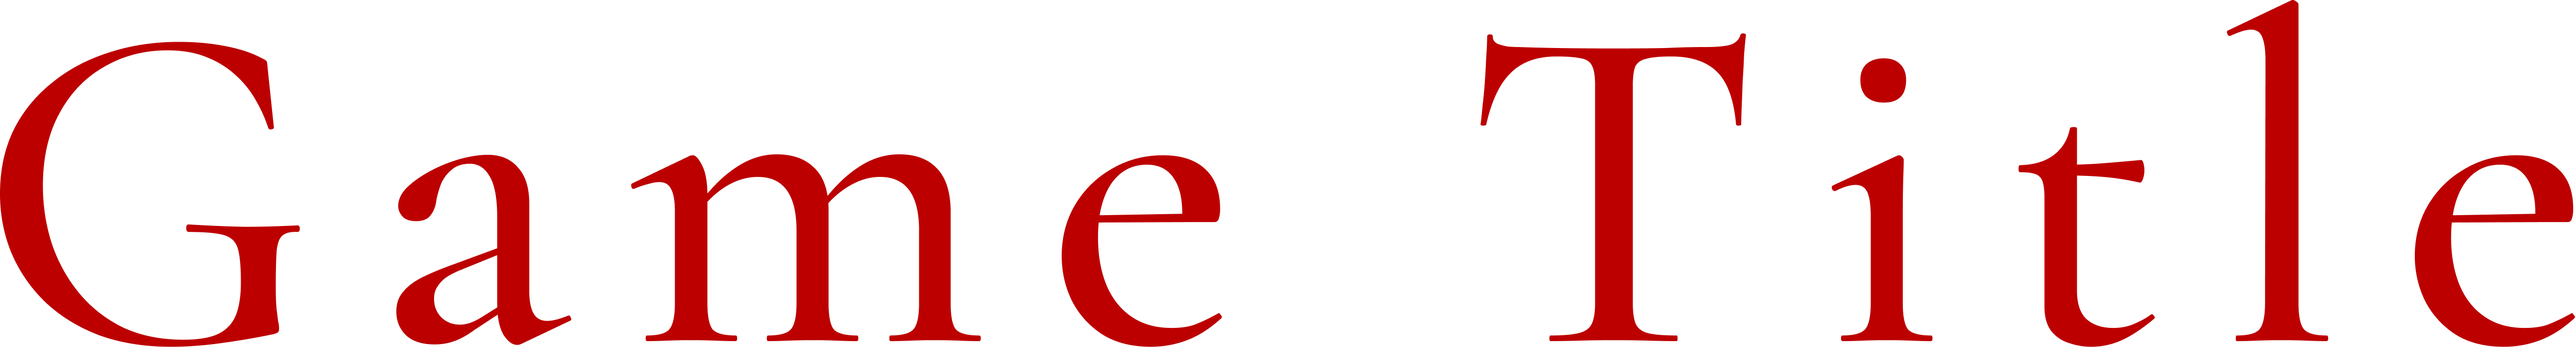
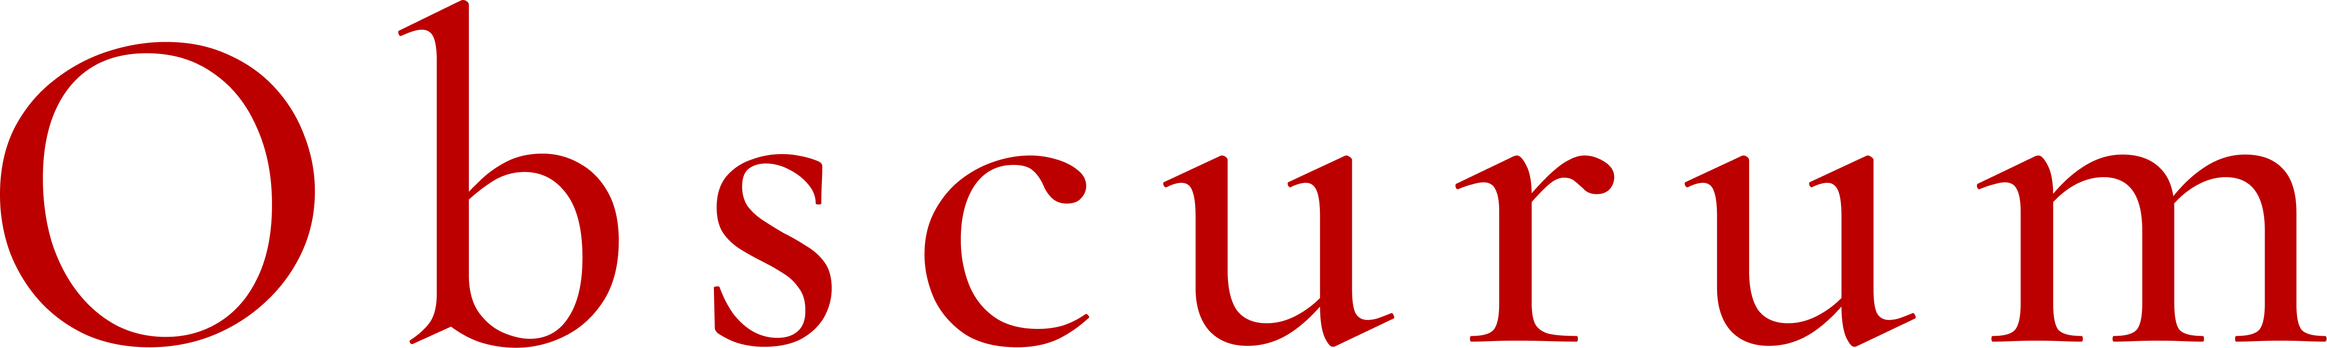
Replaced "Game Title" placeholder image and texts on all pages

diff --git a/index.html b/index.html
@@ -4,7 +4,7 @@
     <link rel="stylesheet" href="styles.css" />
     <meta charset="UTF-8" />
     <meta name="viewport" content="width=device-width, initial-scale=1.0" />
-    <title>Home | Game Title</title>
+    <title>Home | Obscurum</title>
     <link rel="icon" href="icons/favicon-32x32.png" />
     <link rel="preconnect" href="https://fonts.googleapis.com" />
     <link rel="preconnect" href="https://fonts.gstatic.com" crossorigin />
@@ -51,7 +51,7 @@
 
     <section class="mainContent-container">
       <article class="description">
-        <h1>What is this game about?</h1>
+        <h1>What is Obscurum about?</h1>
         <p>
           A foggy morning. A stretch of forest road, sealed off with crime tape.
           You're an FBI agent, sent to investigate a house at the end of the

diff --git a/about.html b/about.html
@@ -4,7 +4,7 @@
     <link rel="stylesheet" href="styles.css" />
     <meta charset="UTF-8" />
     <meta name="viewport" content="width=device-width, initial-scale=1.0" />
-    <title>About | Game Title</title>
+    <title>About | Obscurum</title>
     <link rel="icon" href="icons/favicon-32x32.png" />
     <link rel="preconnect" href="https://fonts.googleapis.com" />
     <link rel="preconnect" href="https://fonts.gstatic.com" crossorigin />

diff --git a/media.html b/media.html
@@ -4,7 +4,7 @@
     <link rel="stylesheet" href="styles.css" />
     <meta charset="UTF-8" />
     <meta name="viewport" content="width=device-width, initial-scale=1.0" />
-    <title>Media | Game Title</title>
+    <title>Media | Obscurum</title>
     <link rel="icon" href="icons/favicon-32x32.png" />
     <link rel="preconnect" href="https://fonts.googleapis.com" />
     <link rel="preconnect" href="https://fonts.gstatic.com" crossorigin />

diff --git a/news.html b/news.html
@@ -4,7 +4,7 @@
     <link rel="stylesheet" href="styles.css" />
     <meta charset="UTF-8" />
     <meta name="viewport" content="width=device-width, initial-scale=1.0" />
-    <title>News | Game Title</title>
+    <title>News | Obscurum</title>
     <link rel="icon" href="icons/favicon-32x32.png" />
     <link rel="preconnect" href="https://fonts.googleapis.com" />
     <link rel="preconnect" href="https://fonts.gstatic.com" crossorigin />

diff --git a/article_022126.html b/article_022126.html
@@ -4,7 +4,7 @@
     <link rel="stylesheet" href="styles.css" />
     <meta charset="UTF-8" />
     <meta name="viewport" content="width=device-width, initial-scale=1.0" />
-    <title>Article | Game Title</title>
+    <title>Article | Obscurum</title>
     <link rel="preconnect" href="https://fonts.googleapis.com" />
     <link rel="preconnect" href="https://fonts.gstatic.com" crossorigin />
     <link

diff --git a/article_031426.html b/article_031426.html
@@ -4,7 +4,7 @@
     <link rel="stylesheet" href="styles.css" />
     <meta charset="UTF-8" />
     <meta name="viewport" content="width=device-width, initial-scale=1.0" />
-    <title>Article | Game Title</title>
+    <title>Article | Obscurum</title>
     <link rel="preconnect" href="https://fonts.googleapis.com" />
     <link rel="preconnect" href="https://fonts.gstatic.com" crossorigin />
     <link

diff --git a/article_040526.html b/article_040526.html
@@ -4,7 +4,7 @@
     <link rel="stylesheet" href="styles.css" />
     <meta charset="UTF-8" />
     <meta name="viewport" content="width=device-width, initial-scale=1.0" />
-    <title>Article | Game Title</title>
+    <title>Article | Obscurum</title>
     <link rel="preconnect" href="https://fonts.googleapis.com" />
     <link rel="preconnect" href="https://fonts.gstatic.com" crossorigin />
     <link

diff --git a/article_041626.html b/article_041626.html
@@ -4,7 +4,7 @@
     <link rel="stylesheet" href="styles.css" />
     <meta charset="UTF-8" />
     <meta name="viewport" content="width=device-width, initial-scale=1.0" />
-    <title>Article | Game Title</title>
+    <title>Article | Obscurum</title>
     <link rel="preconnect" href="https://fonts.googleapis.com" />
     <link rel="preconnect" href="https://fonts.gstatic.com" crossorigin />
     <link

diff --git a/article_050226.html b/article_050226.html
@@ -4,7 +4,7 @@
     <link rel="stylesheet" href="styles.css" />
     <meta charset="UTF-8" />
     <meta name="viewport" content="width=device-width, initial-scale=1.0" />
-    <title>Article | Game Title</title>
+    <title>Article | Obscurum</title>
     <link rel="preconnect" href="https://fonts.googleapis.com" />
     <link rel="preconnect" href="https://fonts.gstatic.com" crossorigin />
     <link

diff --git a/article_051226.html b/article_051226.html
@@ -4,7 +4,7 @@
     <link rel="stylesheet" href="styles.css" />
     <meta charset="UTF-8" />
     <meta name="viewport" content="width=device-width, initial-scale=1.0" />
-    <title>Article | Game Title</title>
+    <title>Article | Obscurum</title>
     <link rel="preconnect" href="https://fonts.googleapis.com" />
     <link rel="preconnect" href="https://fonts.gstatic.com" crossorigin />
     <link

diff --git a/article_051326.html b/article_051326.html
@@ -4,7 +4,7 @@
     <link rel="stylesheet" href="styles.css" />
     <meta charset="UTF-8" />
     <meta name="viewport" content="width=device-width, initial-scale=1.0" />
-    <title>Article | Game Title</title>
+    <title>Article | Obscurum</title>
     <link rel="preconnect" href="https://fonts.googleapis.com" />
     <link rel="preconnect" href="https://fonts.gstatic.com" crossorigin />
     <link

diff --git a/components/header.html b/components/header.html
@@ -1,6 +1,6 @@
 <nav>
   <div class="nav-wrapper">
-    <img class="gameLogo" src="images/GameTitle.png" alt="Game Title" />
+    <img class="gameLogo" src="images/GameTitle.png" alt="Logo of the game Obscurum" />
     <button class="hamburger" id="hamburgerBtn" aria-label="Open Menu" aria-expanded="false">
       <span></span>
       <span></span>
